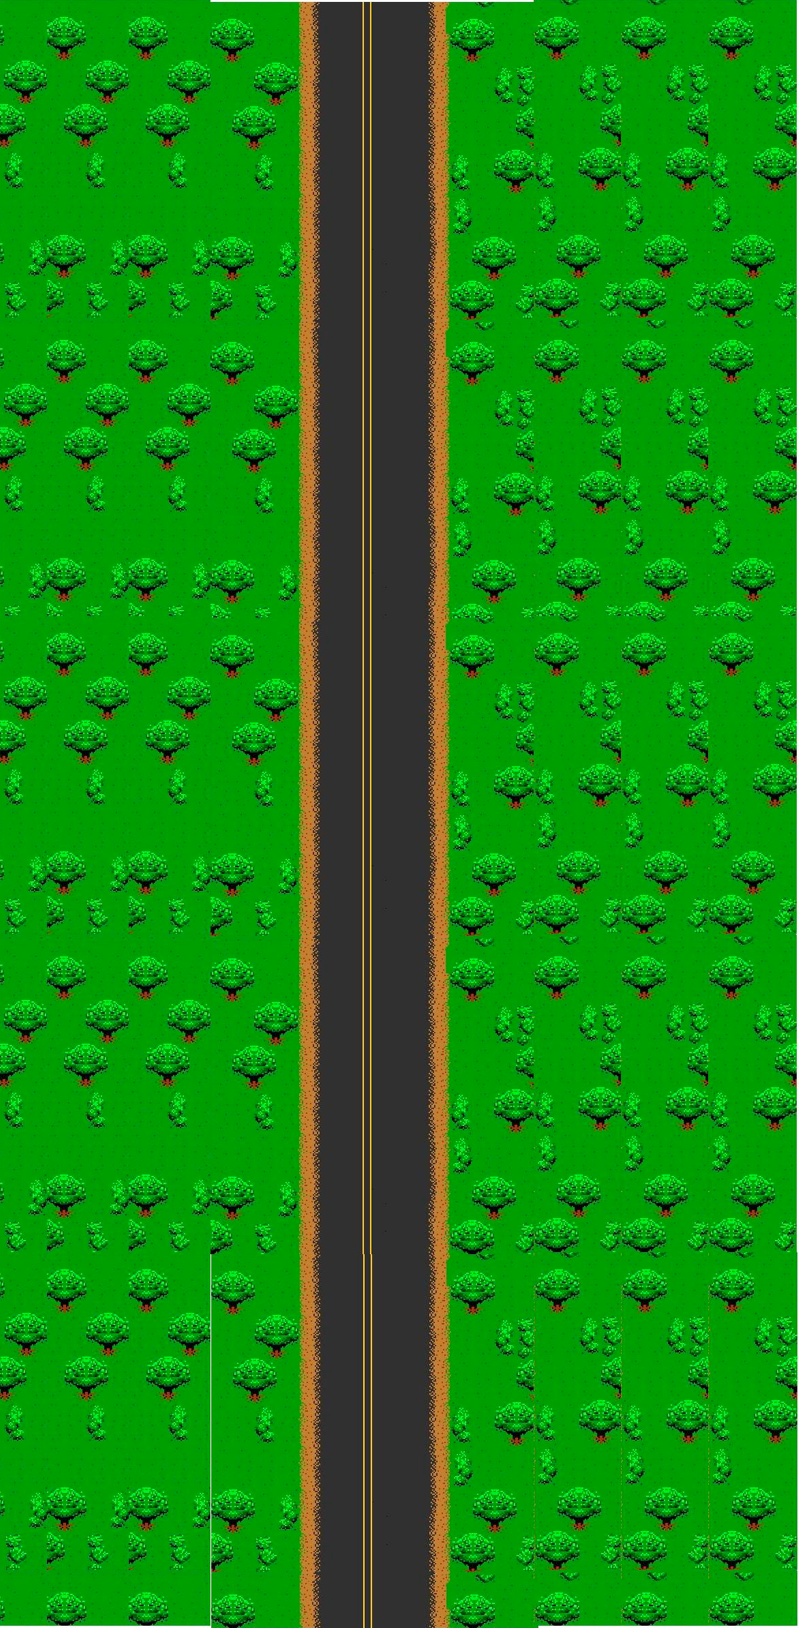
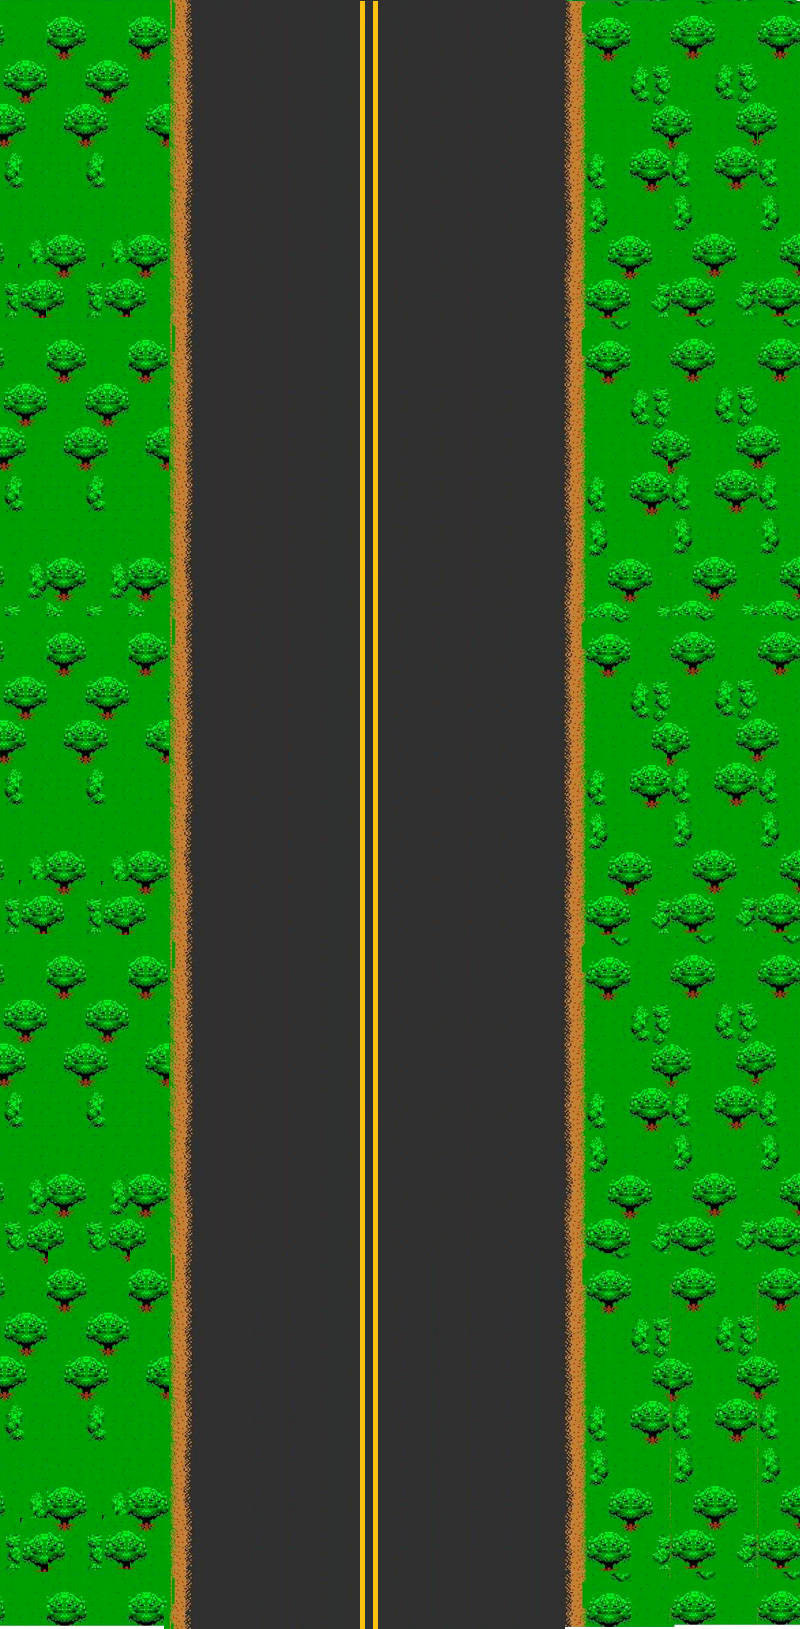
we made the road bigger, including slow points.

diff --git a/src/game_objects/elcamino.rb b/src/game_objects/elcamino.rb
@@ -2,8 +2,8 @@ class Elcamino < Jemini::GameObject
   attr_accessor :movement_rate
   SLOW_SPEED = 0.1
   NORMAL_SPEED = 0.5
-  EDGE_OF_LEFT_ROAD = 299.0
-  EDGE_OF_RIGHT_ROAD = 472.50
+  EDGE_OF_LEFT_ROAD = 208.0
+  EDGE_OF_RIGHT_ROAD = 549.0
   EDGE_OF_LEFT_SCREEN = 29.0
   has_behavior :DrawableImage
   has_behavior :HandlesEvents
@@ -20,7 +20,7 @@ class Elcamino < Jemini::GameObject
       if position.x <= EDGE_OF_LEFT_ROAD
        elcamino.movement_rate = SLOW_SPEED
       end
-      if position.x > EDGE_OF_LEFT_ROAD
+      if on_road(position.x) 
         elcamino.movement_rate = NORMAL_SPEED
       end
     end
@@ -32,10 +32,16 @@ class Elcamino < Jemini::GameObject
       if position.x >= EDGE_OF_RIGHT_ROAD
         elcamino.movement_rate = SLOW_SPEED
       end
-      if position.x < EDGE_OF_RIGHT_ROAD
+      if on_road(position.x)
         elcamino.movement_rate = NORMAL_SPEED
       end
     end
   end
+   
+   def on_road(position_x) 
+     if (position_x > EDGE_OF_LEFT_ROAD) and (position_x < EDGE_OF_RIGHT_ROAD)
+       return true 
+     end
+   end
 end
 
